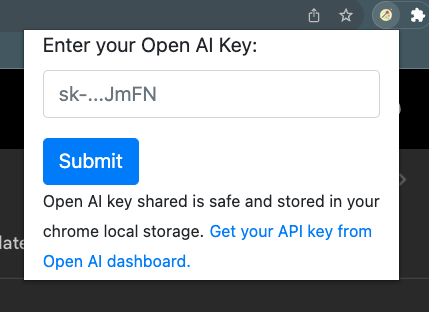
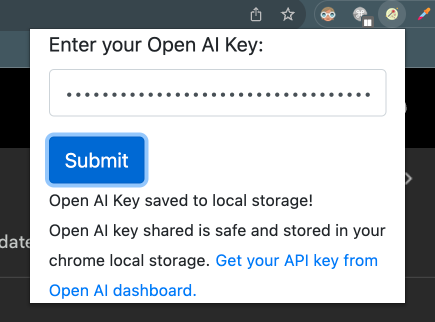
added feedback on savekey click

diff --git a/content.js b/content.js
@@ -18,9 +18,20 @@ function getGptKeyFromLocalStorage() {
 function createInnerHTML(){
         const form = document.createElement('form');
         form.innerHTML = `
-          <label for="prompt">Create Prompt?</label><br>
-          <input type="text" id="textPrompt" name="textPrompt"><br>
-          <input type="submit" value="Submit">
+        <!DOCTYPE html>
+        <html>
+        <head>
+            <title>Textarea Example</title>
+        </head>
+        <body>
+            <form>
+            <textarea rows="4" cols="50" id="textPrompt" name="textPrompt" placeholder="Enter prompt here"></textarea>
+            <br>
+            <input type="submit" value="Submit">
+            </form>
+          </body>
+          </html>
+          
         `;
         return form;
 }

diff --git a/static/js/popup.js b/static/js/popup.js
@@ -11,10 +11,16 @@ document.addEventListener('DOMContentLoaded', function() {
 
     // Save the value to Chrome local storage
     chrome.storage.local.set({ "gptKey": inputValue }, function() {
+      var saveKeyResponse = document.getElementById('saveKeyResponse');
+
       if (chrome.runtime.lastError) {
-        console.error(chrome.runtime.lastError);
+        const response=chrome.runtime.lastError
+        console.error(response);
+        saveKeyResponse.textContent = response;
       } else {
-        console.log('Value saved to local storage:', inputValue);
+        const response='Open AI Key saved to local storage!'
+        console.log(response);
+        saveKeyResponse.textContent = response;
       }
     });
   });

diff --git a/static/html/popup.html b/static/html/popup.html
@@ -27,7 +27,8 @@
         </div>
         <button type="submit" class="btn btn-primary">Submit</button>
     </form>
-   
+    <small class="text-body-secondary" id="saveKeyResponse"></small>
+    <br>
     <small class="text-body-secondary">Open AI key shared is safe and stored in your chrome local storage.</small>
     <small class="text-body-secondary"><a target="_blank"  href="https://platform.openai.com/account/api-keys">Get your API key from Open AI dashboard.</a> </small>
 
